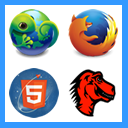
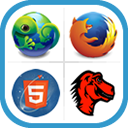
atualizando icone e background

diff --git a/ffxmemoria/css/css_memoria.css b/ffxmemoria/css/css_memoria.css
@@ -6,7 +6,6 @@
 }
 /* DÁ A ALTURA TOTAL AO DOCUMENTO */
 html{ height: 100%; }
-.hidden{ visibility: hidden; }
 body
 {
 	margin: 0;
@@ -14,11 +13,114 @@ body
 	display: block;
 	overflow: hidden;
 }
-#index{	height: 100%; }
+#index
+{	
+    height: 100%;
+    background: #1588c6; /* Old browsers */
+    background: -moz-linear-gradient(#1588c6 0%, #33c3e8 100%);
+}
+/* AJUSTA A TELA */
+#iniciar
+{  
+    margin: 2% auto;
+    width: 100%;
+    height: 75%;
+    z-index: 5;
+    position: absolute;
+    top: 18%;
+    left: 0;
+    
+}
+/* ANIMA O BACKGROUND */
+#iniciar > .img
+{
+    position: relative;
+    width: 310px;
+    height: 310px;
+    background: url("../imagens/logo2.png") no-repeat 0px 0px;
+    left: 50%;
+    margin-left: -155px;
+    -moz-animation: animeimg 160s infinite;
+}
+@-moz-keyframes animeimg
+{
+    0% { -moz-transform: rotate(0); }
+    100% { -moz-transform: rotate(360deg); }
+}
+/* CAIXA DO TÍTULO */
+#topo 
+{ 
+    width: 100%;
+    position:absolute;
+    top: 0;
+    left: 0;
+    z-index: 10; 
+}
+/* DEFINE O CABEÇALHO DO TÍTULO */
+#topo > h2
+{
+	font-size: 22pt;
+	color: rgb(224, 100, 0);
+	text-align: center;
+	text-shadow: #333 2px 2px 2px;
+    margin: 2% 6%;
+    -moz-animation: coresalternadas 35s infinite alternate linear;
+}
+/* CORES ALTERNADAS DO TÍTULO DO JOGO */
+@-moz-keyframes coresalternadas
+{
+    0% { color: white; }
+    12% { color: grey; }
+    24% { color: red; }
+    36% { color: orange; }
+    48% { color: yellow; }
+    60% { color: green; }
+    80% { color: blue; }
+    100% { color: violet; }
+}
+/* BOTÕES */
+[data-position="current"] > #boxbotoes
+{
+    width: auto;
+    position: absolute;
+    bottom: 8%;
+    left: 50%;
+    margin-left: -50px;
+    z-index: 100;
+}
+[data-position="current"] > #boxbotoes ul
+{
+    list-style: none;
+}
+[data-position="current"] > #boxbotoes ul li
+{
+    width: 100px;
+    border: 3px solid #ffffff;
+    font-family: sans-serif;
+    font-weight: bold;
+    color: #ffffff;
+    text-align: center;
+    background-color: #df7614;
+    margin-top: 5%;
+    border-radius: 12px;
+    padding: 6% 0%;
+}
+[data-position="current"] > #boxbotoes ul li:hover
+{
+    font-weight: normal;
+    color: #ffffff;
+    background-color: #9d1b02;
+    cursor: pointer;
+}
 /* DEFINE A CAIXA COM AS IMAGENS */
+#quadros
+{
+    background: #1588c6; /* Old browsers */
+    background: -moz-linear-gradient(#1588c6 0%, #33c3e8 100%);   
+}
 div#placar
 {
-    background: #00aadd;
+    /*background: #00aadd;
     width: 100%;/*320px;*/
     height: 100%;
     padding: 1% 0%;
@@ -49,27 +151,7 @@ div#placar > div
     display: none;
 }
 /* ------------------------------------------------ */
-/* CAIXA DO TÍTULO COM O BOTÃO FECHA */
-#topo 
-{ 
-    width: 100%;
-    position:absolute;
-    top: 0;
-    left: 0;
-    z-index: 10; 
-}
-/* DEFINE O BOTÃO DE FECHAR */
-span#fechar
-{
-	background: url(headers/images/icons/close.png) no-repeat center center;
-	width: 30px;
-    height: 30px;
-	position: absolute;
-	top: 0;
-	left: 0;
-	display: block;
-}
-/* */
+/* PROPRIEDADES DA ÁREA DO RELÓGIO */
 #dvtempo
 {
     width: auto;
@@ -81,41 +163,12 @@ span#fechar
     z-index: 10;
     padding: 2px;
 }
-/* DEFINE O CABEÇALHO DO TÍTULO */
-#topo > h2
-{
-	font-size: 22pt;
-	color: rgb(224, 100, 0);
-	text-align: center;
-	text-shadow: #333 2px 2px 2px;
-    margin: 6% 6%;
-    -moz-animation: coresalternadas 35s infinite alternate linear;
-}
-/* CORES ALTERNADAS DO TÍTULO DO JOGO */
-@-moz-keyframes coresalternadas
-{
-    0% { color: white; }
-    12% { color: grey; }
-    24% { color: red; }
-    36% { color: orange; }
-    48% { color: yellow; }
-    60% { color: green; }
-    80% { color: blue; }
-    100% { color: violet; }
-}
-/* AJUSTA A TELA */
-#iniciar
-{
-    margin: 2% auto;
-    width: 90%;
-    height: 75%;
-    z-index: 5;
-    position: absolute;
-    top: 18%;
-    left: 5%;
-	cursor: pointer;
-}
 /* CABEÇALHO DA LISTA DE PONTOS */
+#lists
+{
+    background: #1588c6; /* Old browsers */
+    background: -moz-linear-gradient(#1588c6 0%, #33c3e8 100%);   
+}
 #lists > h4
 {
 	font-size: 18pt;
@@ -165,6 +218,8 @@ section[role="region"] > .fixed > menu[type="toolbar"] > button
     padding: 0;
     border-radius: 0;
 }
+/* ESCONDE A SECTION */
+.hidden{ visibility: hidden; }
 /* --------------------------------------------------- */
 /* ANIMA PARA A DIREITA */
 [data-position="right"]

diff --git a/ffxmemoria/index.html b/ffxmemoria/index.html
@@ -1,9 +1,9 @@
 <!DOCTYPE html>
 <html>
 <head>
-    <meta charset="utf-8">
-    <meta content="no-cache">
-	<meta name="viewport" content="width=device-width, initial-scale=1.0, maximum-scale=1.0, user-scalable=0">
+    <meta content-type="application/x-web-app-manifest+json" charset="utf-8"></meta>
+    <meta content="no-cache" http-equiv="pragma"></meta>
+	<meta name="viewport" content="width=320" name="viewport"></meta>
     <title>FFXMemoria</title>
     <link type="text/css" rel="stylesheet" href="css/css_memoria.css" />
 	<link type="text/css" rel="stylesheet" href="css/transitions.css" />
@@ -18,17 +18,25 @@
 	<!------------------------------------------ Tela Inicial ------------------------------------------>
     <section id="index" data-position="current">
 		<div id="topo">
-            <a href="#"><span id="fechar"></span></a>
             <h2>Jogo de mem&oacute;ria FFOS</h2>
 		</div>
         <div id="iniciar">
-            <image  src="imagens/logo.png" width="100%" height="100%" />
+            <div class="img"></div>
+            <!--<div class="img"></div>
+            <image src="imagens/logo2.png" width="70%" height="50%" />-->
+        </div>
+        <div id="boxbotoes">
+            <ul>
+                <li id="inicio">Iniciar</li>
+                <li id="pontos">Tempos</li>
+                <li id="sair">Sair</li>
+            </ul>
         </div>
 	</section>
 	
 	<!---------------------------------------------- Game ---------------------------------------------->
 		
-	<section role="region" id="input-areas" data-position="right">
+	<section role="region" id="quadros" data-position="right">
 		<header class="fixed">
             <a id="btn-lists-back" href="#"><span class="icon icon-close">back</span></a>
         </header>

diff --git a/ffxmemoria/js/botoes.js b/ffxmemoria/js/botoes.js
@@ -3,13 +3,9 @@
     URL: http://www.evtnweb.blogspot.com.br
 */
 // INICIA O JOGO AO CLICAR NA IMAGEM DO FIREFOX
-document.querySelector('#iniciar').addEventListener('click', function()
-{
-	telaJogo();
-});
 function telaJogo()
 {
-	document.querySelector('#input-areas').className = 'current';
+	document.querySelector('#quadros').className = 'current';
 	document.querySelector('[data-position="current"]').className = 'left';
 	inicializeDB();
     iniciaJogo();
@@ -22,7 +18,7 @@ document.querySelector('#btn-lists-back').addEventListener('click', function()
 });
 function telaInicial()
 {
-	document.querySelector('#input-areas').className = 'right';
+	document.querySelector('#quadros').className = 'right';
 	document.querySelector('[data-position="current"]').className = 'current';
 	paraContador();
 }
@@ -40,11 +36,6 @@ document.querySelector('#btn-pontos').addEventListener('click', function()
 	telaInicial();
 });
 // ---------------------------------------------------------------------------
-// FECHA A APLICAÇÃO
-document.querySelector('#fechar').addEventListener('click', function () 
-{
-    fecharApp();
-});
 // LIMPA OS DADOS GRAVADOS NO BANCO
 document.querySelector('#limparDado').addEventListener('click', function () 
 {
@@ -52,4 +43,20 @@ document.querySelector('#limparDado').addEventListener('click', function ()
 	{
         limpaDados();
 	}
+});
+// BOTÕES DA TELA DE ÍNICIO
+// ÍNICIO
+document.querySelector('#inicio').addEventListener('click', function () 
+{
+    telaJogo();
+});
+// SOM
+document.querySelector('#pontos').addEventListener('click', function () 
+{
+    listaPontos();
+});
+// SAIR
+document.querySelector('#sair').addEventListener('click', function () 
+{
+    fecharApp();
 });
